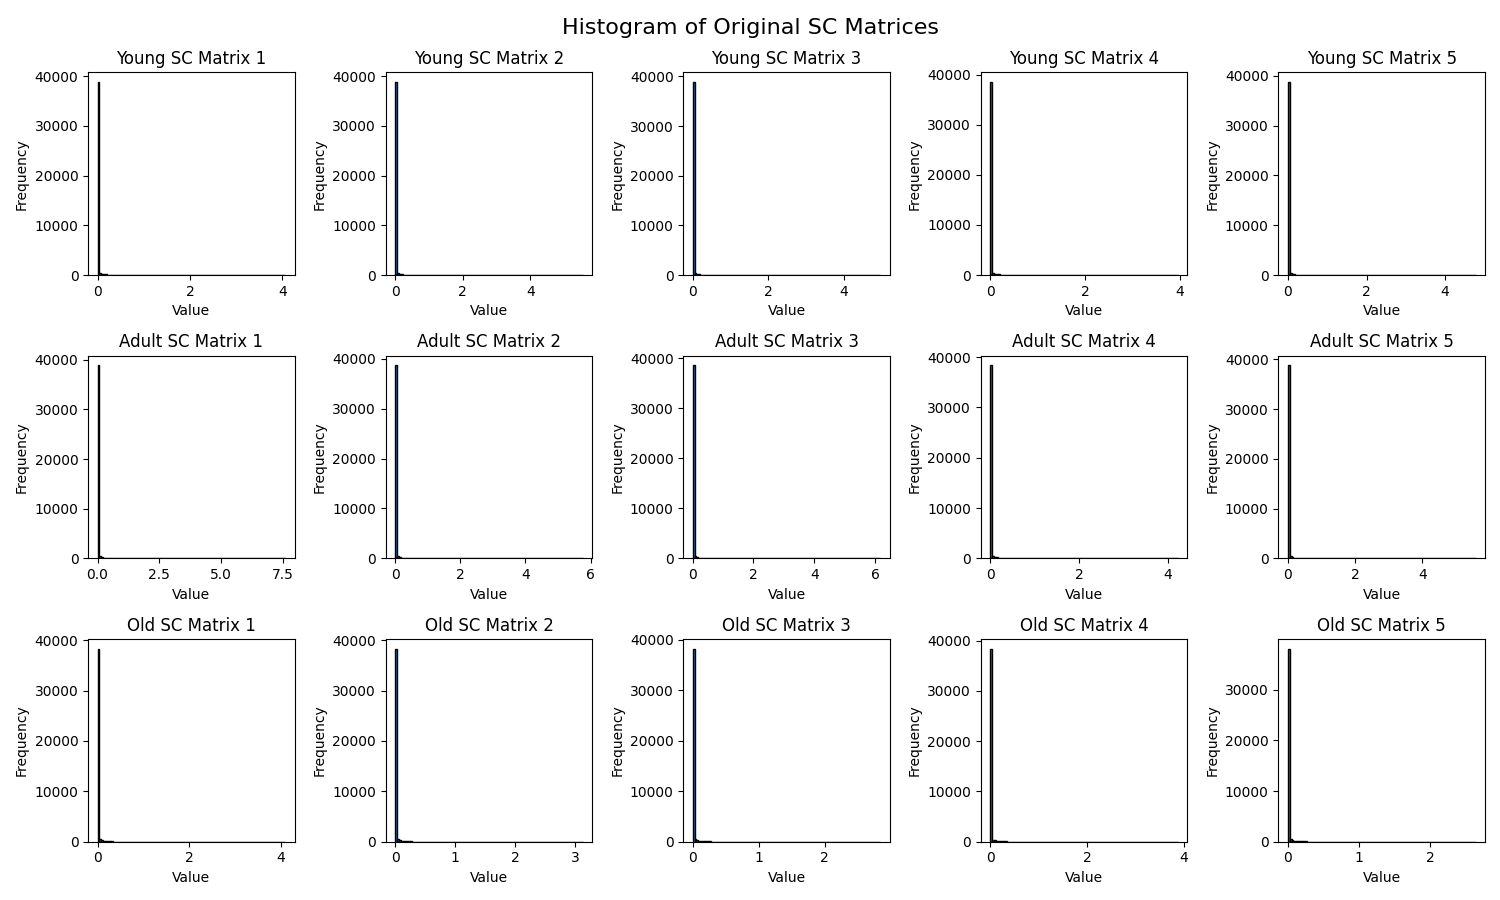
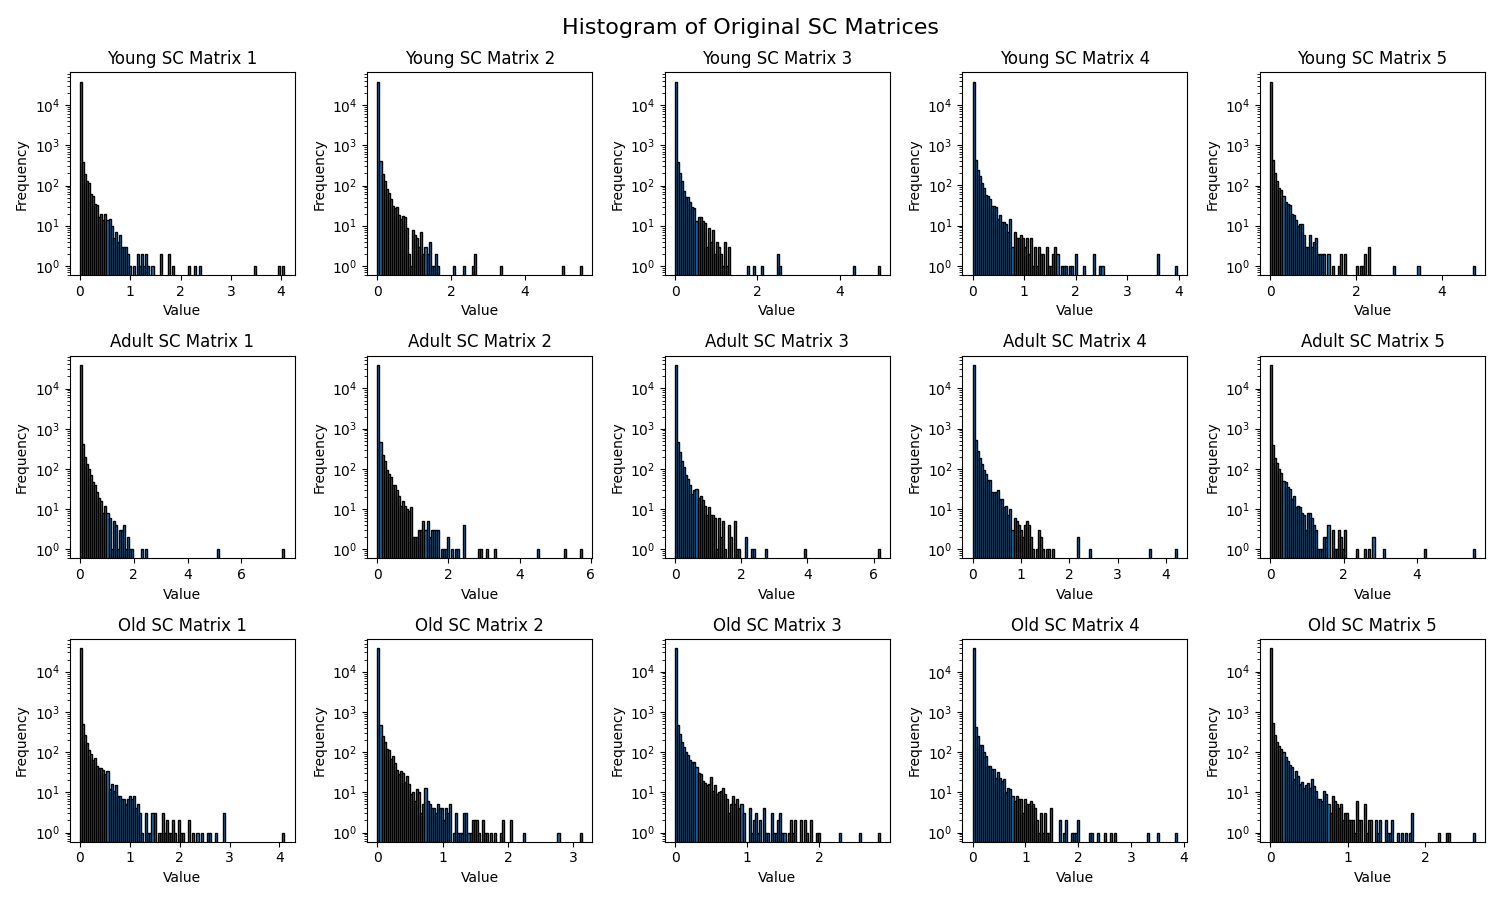
fixed report
Former-commit-id: 1a1812070fdfe91fc6615fa67e6666b57ae5c84e

diff --git a/Thesis Draft/reports/report1.tex b/Thesis Draft/reports/report1.tex
@@ -1,11 +1,20 @@
 
 \section{Introduction}
-Summary of the Python code used for processing and analyzing structural connectivity (SC) and functional connectivity (FC) matrices derived from brain network data. Various tasks were performed including loading data, preprocessing, visualization, and community detection.
+Summary of the Python code used for processing and analyzing structural connectivity (SC) and functional connectivity (FC) matrices. Various tasks were performed including loading data, preprocessing, visualization, and community detection.
 
-\section{Matrix Extraction}
-Loaded data from .mat files using the \texttt{scipy.io.loadmat} function.
-Extracted SC and FC data from the loaded .mat files and stored in variables.
-Extracted matrices for different age groups (young, adult, old) from the SC and FC data.
+\section{Data Extraction}
+
+\begin{enumerate}
+    \item \textbf{Loading Data:} 
+    The data was loaded from .mat files using the \texttt{scipy.io.loadmat} function. This function reads the MATLAB files and loads the data into Python variables.
+    
+    \item \textbf{Extracting SC and FC Data:} 
+    After loading the .mat files, the SC (Structural Connectivity) and FC (Functional Connectivity) data were extracted from the loaded data structures. This was done by accessing specific keys within the loaded data that correspond to SC and FC.
+    
+    \item \textbf{Extracting Age Group Matrices:} 
+    The SC and FC data contain matrices for different age groups (young, adult, old). These matrices were extracted by accessing the specific fields within the SC and FC data structures and each age group's data was stored separately.
+\end{enumerate}
+
 
 \section{Preprocessing}
 Preprocessed matrices to set negative weights to zero, apply thresholding, and normalize.
@@ -22,37 +31,35 @@ Visualized matrices as heatmaps and histograms using \texttt{matplotlib}. For ex
         \includegraphics[width=\textwidth]{C:/Users/barbo/Desktop/thesis repo clone/thesis/Thesis Draft/figures/FC_matrices_heatmap.png}
         \caption{Heatmap of Original FC Matrices}
     \end{subfigure}
-    
-    \begin{subfigure}[b]{0.45\textwidth}
-        \includegraphics[width=\textwidth]{C:/Users/barbo/Desktop/thesis repo clone/thesis/Thesis Draft/figures/FC_matrices_heatmap_preprocessed.png}
-        \caption{Heatmap of Preprocessed FC Matrices}
-    \end{subfigure}
     \begin{subfigure}[b]{0.45\textwidth}
         \includegraphics[width=\textwidth]{C:/Users/barbo/Desktop/thesis repo clone/thesis/Thesis Draft/figures/SC_matrices_heatmap_preprocessed.png}
         \caption{Heatmap of Preprocessed SC Matrices}
     \end{subfigure}
-    
+    \begin{subfigure}[b]{0.45\textwidth}
+        \includegraphics[width=\textwidth]{C:/Users/barbo/Desktop/thesis repo clone/thesis/Thesis Draft/figures/FC_matrices_heatmap_preprocessed.png}
+        \caption{Heatmap of Preprocessed FC Matrices}
+    \end{subfigure}
     \caption{Various Heatmaps of SC and FC Matrices}
 \end{figure}
 
+
 \begin{figure}[h!]
     \centering
+    \begin{subfigure}[b]{0.45\textwidth}
+        \includegraphics[width=\textwidth]{C:/Users/barbo/Desktop/thesis repo clone/thesis/Thesis Draft/figures/SC_matrices_histogram.png}
+        \caption{Histogram of Original SC Matrices}
+    \end{subfigure}
     \begin{subfigure}[b]{0.45\textwidth}
         \includegraphics[width=\textwidth]{C:/Users/barbo/Desktop/thesis repo clone/thesis/Thesis Draft/figures/FC_matrices_histogram.png}
         \caption{Histogram of Original FC Matrices}
     \end{subfigure}
     \begin{subfigure}[b]{0.45\textwidth}
-        \includegraphics[width=\textwidth]{C:/Users/barbo/Desktop/thesis repo clone/thesis/Thesis Draft/figures/SC_matrices_histogram.png}
-        \caption{Histogram of Original SC Matrices}
+        \includegraphics[width=\textwidth]{C:/Users/barbo/Desktop/thesis repo clone/thesis/Thesis Draft/figures/SC_matrices_histogram_preprocessed.png}
+        \caption{Histogram of Preprocessed SC Matrices}
     \end{subfigure}
-    
     \begin{subfigure}[b]{0.45\textwidth}
         \includegraphics[width=\textwidth]{C:/Users/barbo/Desktop/thesis repo clone/thesis/Thesis Draft/figures/FC_matrices_histogram_preprocessed.png}
         \caption{Histogram of Preprocessed FC Matrices}
-    \end{subfigure}
-    \begin{subfigure}[b]{0.45\textwidth}
-        \includegraphics[width=\textwidth]{C:/Users/barbo/Desktop/thesis repo clone/thesis/Thesis Draft/figures/SC_matrices_histogram_preprocessed.png}
-        \caption{Histogram of Preprocessed SC Matrices}
     \end{subfigure}
     
     \caption{Various Histograms of SC and FC Matrices}

diff --git a/Codice.py b/Codice.py
@@ -177,7 +177,8 @@ def plot_and_save_histogram(young_matrix, adult_matrix, old_matrix, title_prefix
         axs[0, i].hist(flattened_matrix, bins=100, edgecolor='k')
         axs[0, i].set_title(f"Young {title_prefix} Matrix {i+1}")
         axs[0, i].set_xlabel('Value')
-        axs[0, i].set_ylabel('Frequency')
+        axs[0, i].set_ylabel('Frequency (log scale)')
+        axs[0, i].set_yscale('log')
 
         # Adult group
         upper_tri_matrix = np.triu(adult_matrix[:, :, i], k=1)
@@ -185,7 +186,8 @@ def plot_and_save_histogram(young_matrix, adult_matrix, old_matrix, title_prefix
         axs[1, i].hist(flattened_matrix, bins=100, edgecolor='k')
         axs[1, i].set_title(f"Adult {title_prefix} Matrix {i+1}")
         axs[1, i].set_xlabel('Value')
-        axs[1, i].set_ylabel('Frequency')
+        axs[1, i].set_ylabel('Frequency (log scale)')
+        axs[1, i].set_yscale('log')
 
         # Old group
         upper_tri_matrix = np.triu(old_matrix[:, :, i], k=1)
@@ -193,7 +195,8 @@ def plot_and_save_histogram(young_matrix, adult_matrix, old_matrix, title_prefix
         axs[2, i].hist(flattened_matrix, bins=100, edgecolor='k')
         axs[2, i].set_title(f"Old {title_prefix} Matrix {i+1}")
         axs[2, i].set_xlabel('Value')
-        axs[2, i].set_ylabel('Frequency')
+        axs[2, i].set_ylabel('Frequency (log scale)')
+        axs[2, i].set_yscale('log')
 
     plt.tight_layout()
     #plt.show()
@@ -614,4 +617,6 @@ plot_and_save_graph(fc_young_graph_preprocessed_louvain, fc_adult_graph_preproce
 # TODO: Multilayer network construction (layer alignment with multilayer modularity optimization framework with different resolutions, resolution parameter tuning)
 
 
+
+# TODO: Multi-modal and multi-subject modularity optimization
 

diff --git a/Thesis Draft/sections/data/data.tex b/Thesis Draft/sections/data/data.tex
@@ -1,0 +1,1 @@
+Functional networks are rendered as temporal correlation matrices, and anatomical networks were converted into structural correlation matrices \cite{Puxeddu2022}.
